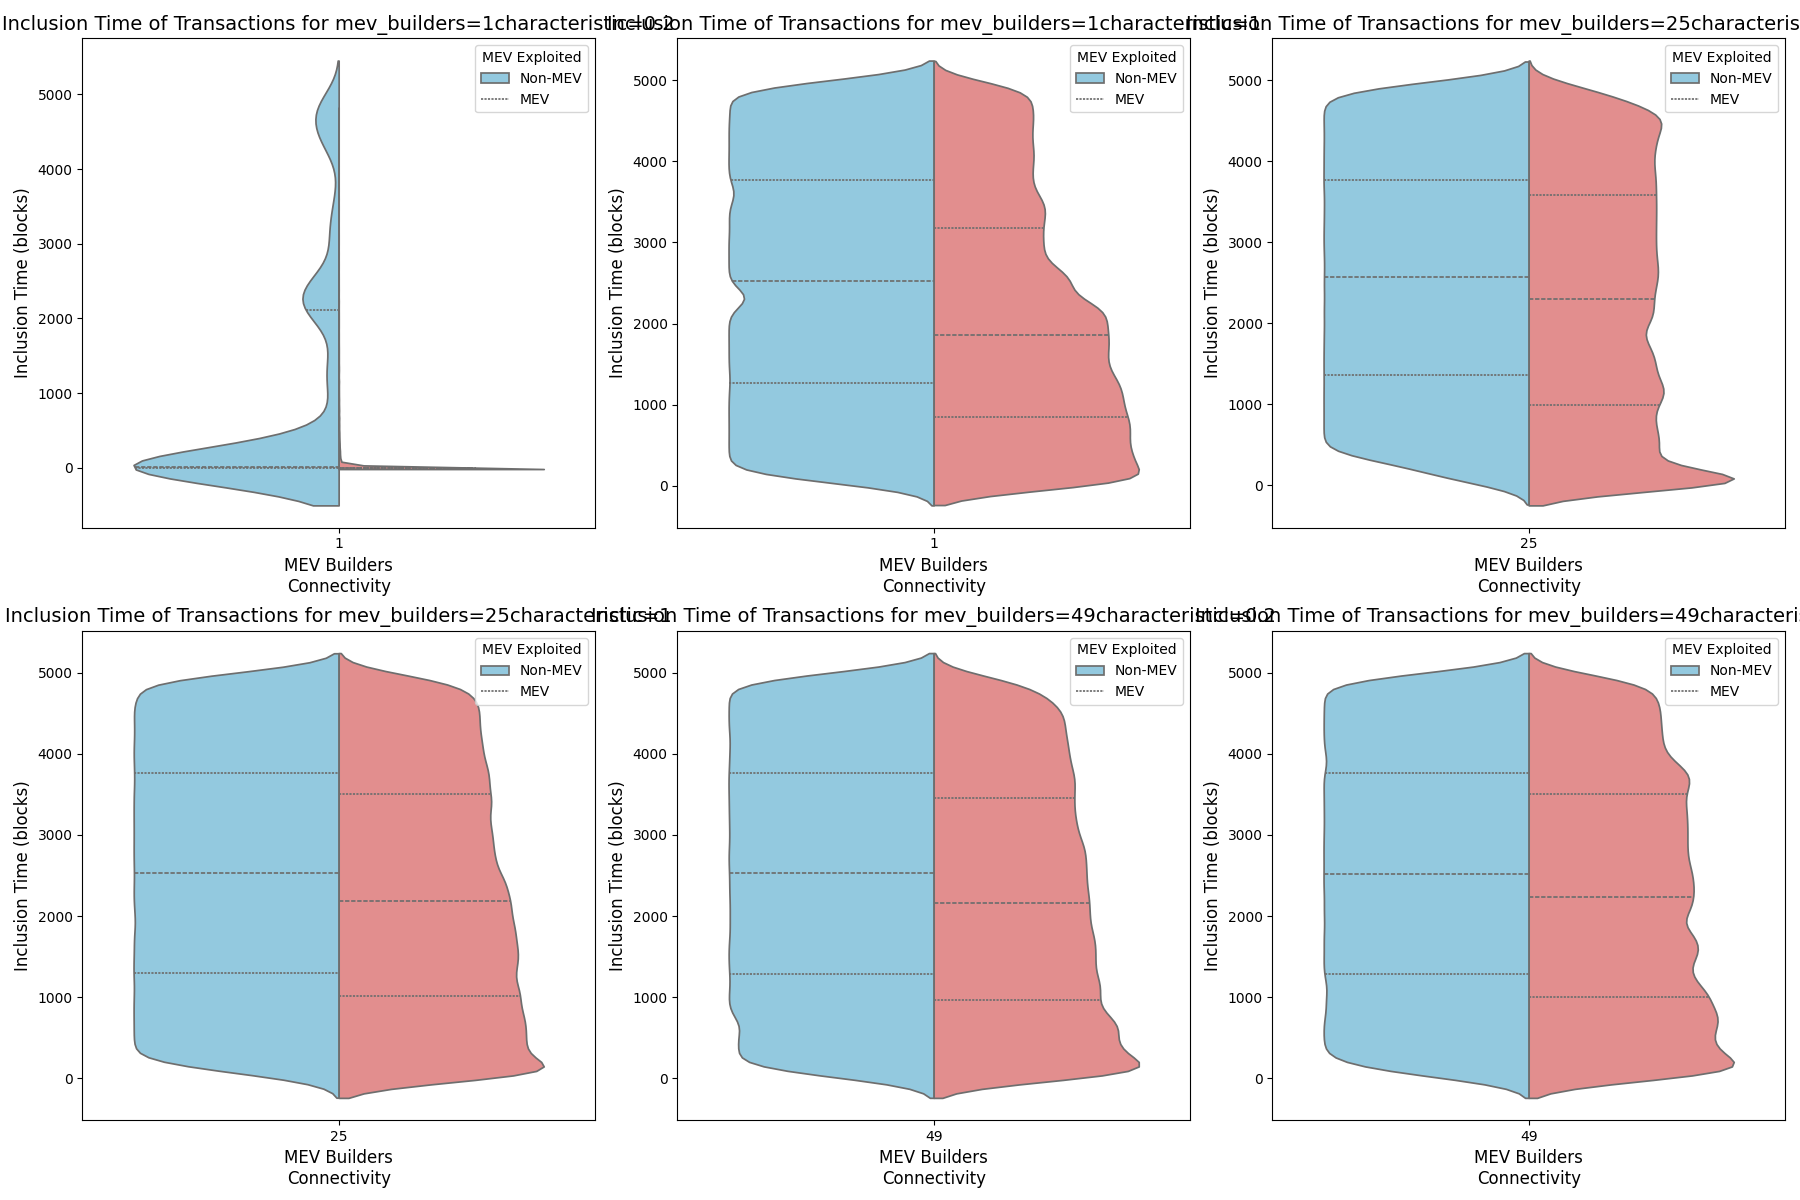
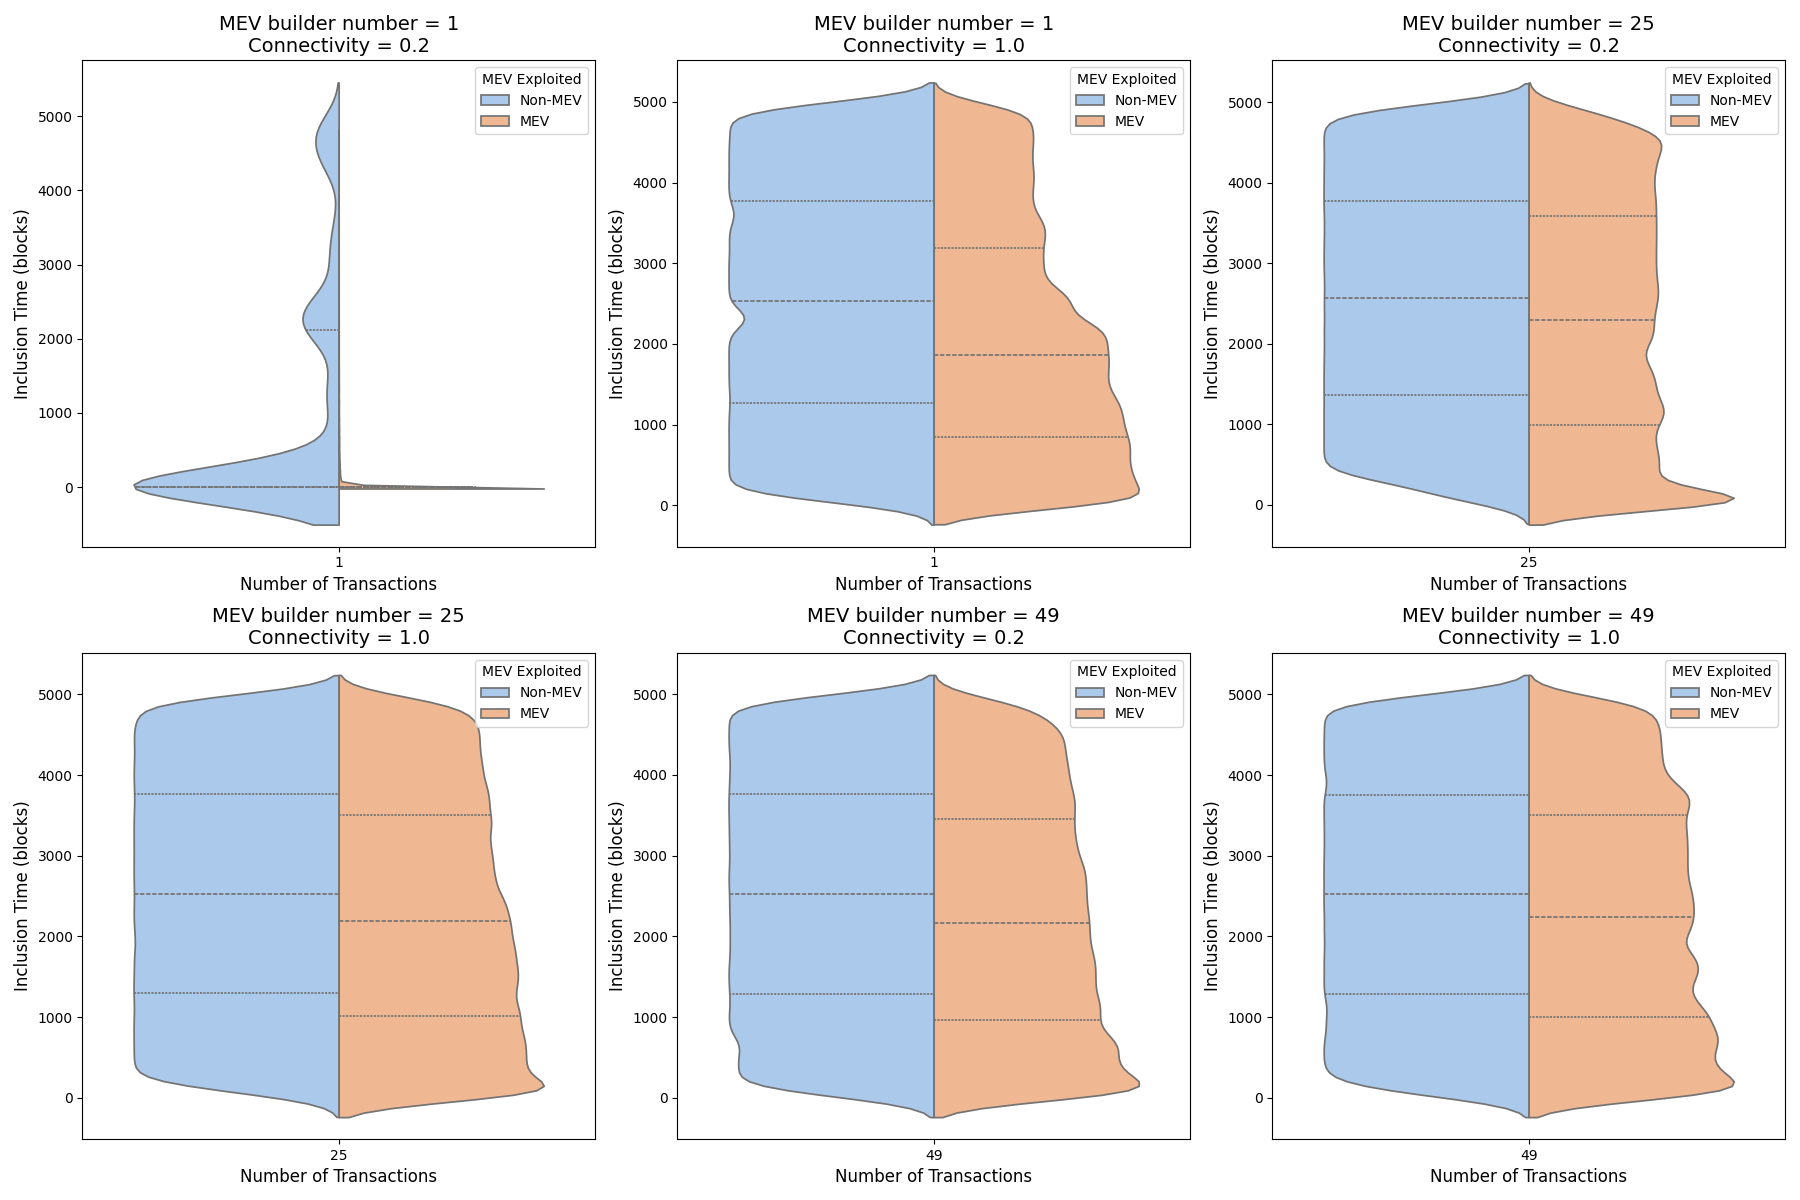
update

diff --git a/plots/tx_plot.py b/plots/tx_plot.py
@@ -6,7 +6,8 @@ import seaborn as sns
 def load_csv(file_path):
     try:
         return pd.read_csv(file_path, usecols=lambda column: column.startswith('transaction_id') or column.startswith('gas') or column.startswith('mev') or column.startswith('block_created') or column == 'block_index')
-    except Exception:
+    except Exception as e:
+        print(f"Error loading {file_path}: {e}")
         return pd.DataFrame()
 
 def extract_params(file_name):
@@ -15,10 +16,11 @@ def extract_params(file_name):
         mev_builders = int(params[0].split('characteristic')[0])
         connectivity = float(params[1].replace('.csv', ''))
         return mev_builders, connectivity
-    except Exception:
+    except Exception as e:
+        print(f"Error extracting params from {file_name}: {e}")
         return None, None
 
-def reshape_data(data, mev_builders, connectivity):
+def reshape_data(data, mev_builders, connectivity, file_path):
     records = []
     for i in range(100):
         trans_id_col = f'transaction_id.{i}'
@@ -28,11 +30,15 @@ def reshape_data(data, mev_builders, connectivity):
 
         if trans_id_col in data.columns:
             subset = data[['block_index', trans_id_col, gas_col, mev_col, block_time_col]].dropna()
-            subset.columns = ['block_index', 'transaction_id', 'gas', 'mev', 'block_time']
+            subset.columns = ['block_index', 'transaction_id', 'gas', 'mev', 'block_created']
             subset['mev_builders'] = mev_builders
             subset['connectivity'] = connectivity
-            subset['inclusion_time'] = subset['block_index'] - subset['block_time']
-            subset = subset[subset['inclusion_time'] >= 0]  # Filter out negative inclusion times
+
+            subset['inclusion_time'] = subset['block_index'].astype(int) - subset['block_created'].astype(int)
+
+            # print(f"File: {file_path}, Transaction ID: {subset['transaction_id'].tolist()[:5]}, Block Index: {subset['block_index'].tolist()[:5]}, Block Created: {subset['block_created'].tolist()[:5]}, Inclusion Time: {subset['inclusion_time'].tolist()[:5]}")
+
+            subset = subset[subset['inclusion_time'] >= 0]
             records.append(subset)
     
     if records:
@@ -50,18 +56,25 @@ def process_file(file_path):
     if mev_builders is None or connectivity is None:
         return pd.DataFrame()
     
-    return reshape_data(data, mev_builders, connectivity)
+    return reshape_data(data, mev_builders, connectivity, file_path)
 
 def plot_split_violin(data_dict, save_dir):
     plt.figure(figsize=(18, 12))
     for idx, (file_label, data) in enumerate(data_dict.items(), 1):
         data['mev_exploited'] = data['mev'] > 0
         plt.subplot(2, 3, idx)
-        sns.violinplot(data=data, x='mev_builders', y='inclusion_time', hue='mev_exploited', split=True, inner="quart", palette={True: 'lightcoral', False: 'skyblue'})
-        plt.title(f'Inclusion Time of Transactions for {file_label}', fontsize=14)
-        plt.xlabel('MEV Builders\nConnectivity', fontsize=12)
+        sns.violinplot(data=data, x='mev_builders', y='inclusion_time', hue='mev_exploited', split=True, inner="quart", palette='pastel')
+        mev_builders = data['mev_builders'].iloc[0]
+        connectivity = data['connectivity'].iloc[0]
+        plt.title(f'MEV builder number = {mev_builders}\nConnectivity = {connectivity}', fontsize=14)
+        plt.xlabel('Number of Transactions', fontsize=12)
         plt.ylabel('Inclusion Time (blocks)', fontsize=12)
-        plt.legend(title='MEV Exploited', labels=['Non-MEV', 'MEV'], loc='upper right')
+        handles, labels = plt.gca().get_legend_handles_labels()
+        plt.legend(handles, ['Non-MEV', 'MEV'], title='Transaction Type', loc='upper right')
+        
+        transaction_counts = data['transaction_id'].value_counts()
+        tick_labels = [f'{count} transactions' for count in transaction_counts]
+        plt.xticks(ticks=range(len(transaction_counts)), labels=tick_labels, rotation=45, ha='right')
 
     plt.tight_layout()
     plt.savefig(os.path.join(save_dir, 'inclusion_time_violin.png'))
